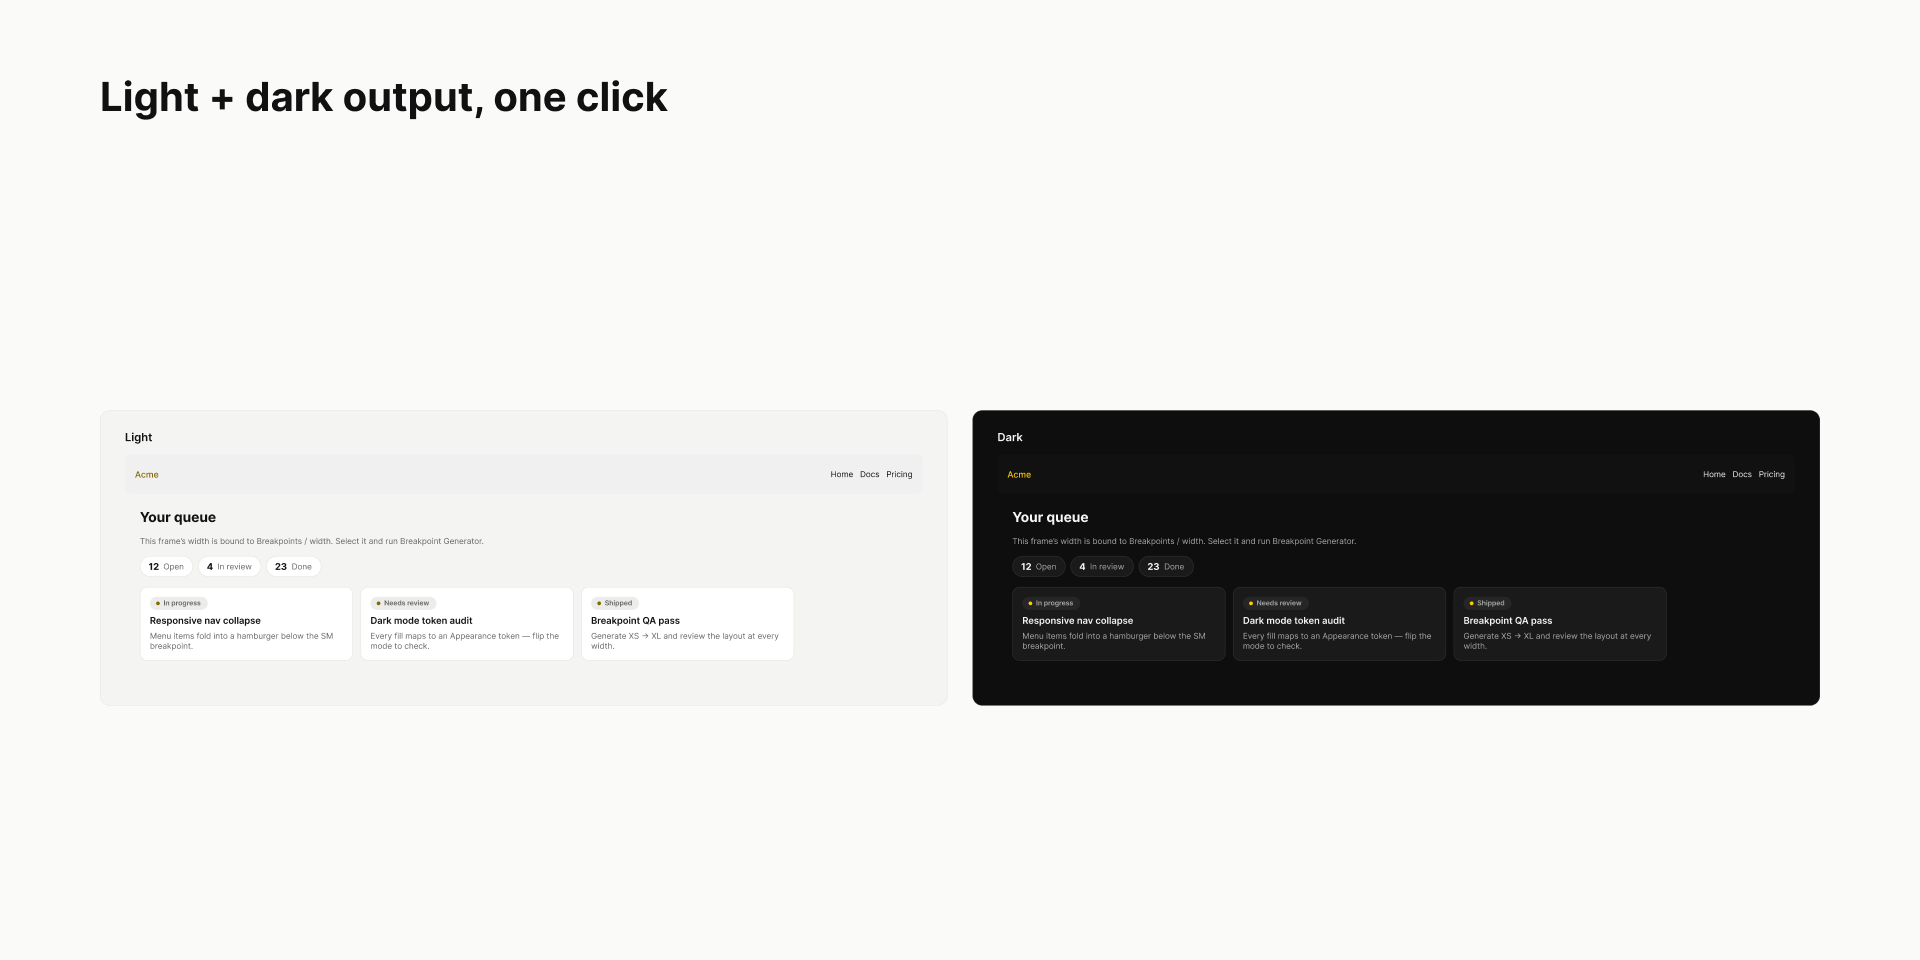
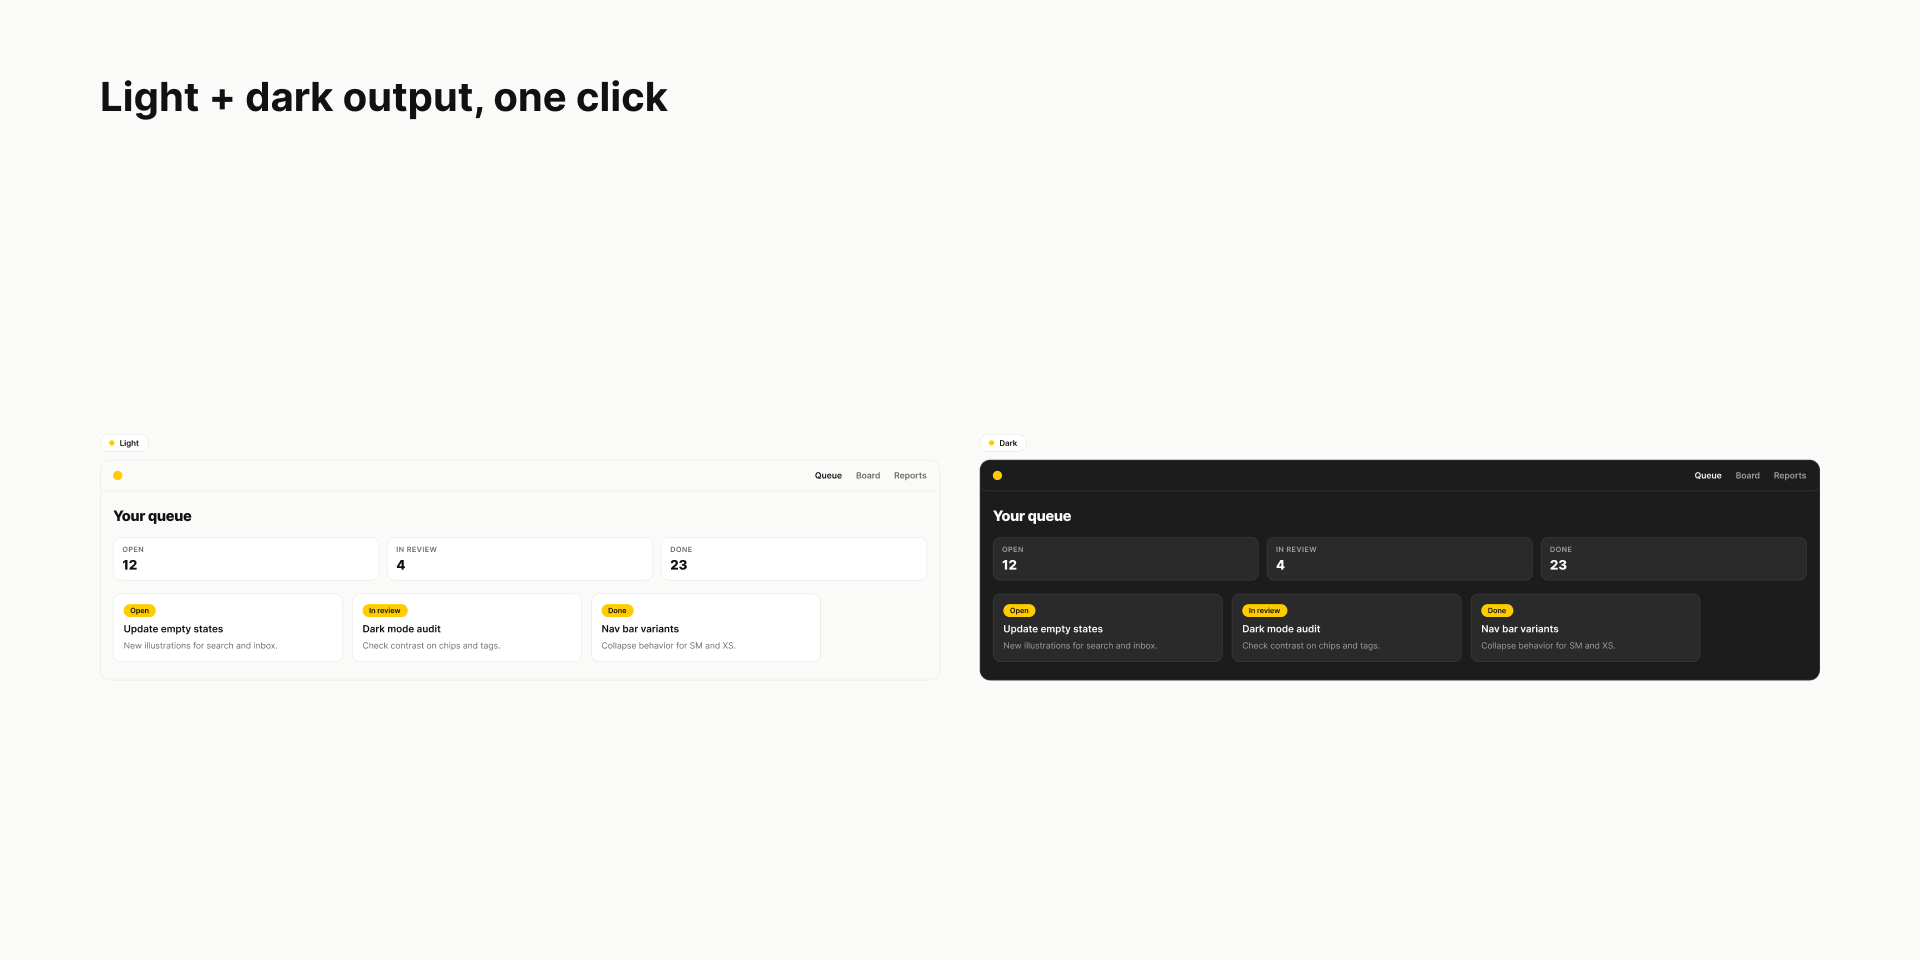
Refresh listing assets from the v2 playground redesign
The playground file was rebuilt to the 'Breakpoint Playground v2' design
(Claude Design): yellow hero cover, contents page with node jump links,
yellow-sidebar chapter cards, and a new ticket-board sample screen with a
revised light/dark palette. Cover and the two canvas carousel screenshots
are re-exported from the new frames; checklist updated to describe the v2
file structure.

diff --git a/community/submission-checklist.md b/community/submission-checklist.md
@@ -30,18 +30,25 @@ Upload in this order:
 - Name, tagline, description, tags — all in `community/listing.md`. Paste in.
 
 ## 5. Playground / template file — built, publish is **[you]**
-The file "Breakpoint generator Playground" is fully built and wired:
-- **Welcome card** (01 · Start here) with the 3-step instructions.
-- **Sample screen** — a small ticket-board app, width bound to
-  `Breakpoints/width` (modes XS 390 → XL 1440), every fill bound to an
-  `Appearance` light/dark token. Space to its right is kept clear for output.
-- **02 · What Generate makes** — example output at XS/SM/LG plus a light +
-  dark strip, made with the same mode-pinning the plugin uses.
-- **03 · Parts the plugin can use** — the `Nav bar` variant set (XS→XL) and
-  the `Breakpoint label` component.
+The file "Breakpoint generator Playground" follows the Figma-team playground
+pattern (designed as "Breakpoint Playground v2" in Claude Design, implemented
+on canvas with live wiring):
+- **Cover** — full-yellow hero with the 390/768/1280 mini-frame graphic.
+- **Contents** — jump links (real node links) to every section, plus the
+  dashed "how to try it" tip with a Generate keycap.
+- **Introduction and setup** — yellow sidebar card with the 3 steps; the
+  live **Sample screen** sits right below it (width bound to
+  `Breakpoints/width`, every fill on `Appearance` light/dark tokens; space to
+  its right is kept clear for plugin output).
+- **Expected output** — sidebar card with real mode-pinned clones at
+  390 / 768 / 1280 showing the 1→2→3 column reflow.
+- **Light & dark** — sidebar card with the same screen in both modes
+  (yellow accent constant across modes).
+- **Parts the plugin uses** — label component + nav bar shelf (XL→XS, menu
+  collapses to a hamburger at SM/XS). Source components sit below.
 - **Listing assets section** — icon, cover, and the three carousel frames.
-  **Delete this section before publishing the file** (it's for the plugin
-  listing, not for users).
+  **Delete this section (and the plugin screenshots section) before
+  publishing the file** — they're for the plugin listing, not for users.
 
 To publish the file: open it → **Share** (top right) → **Publish to
 Community** → set it as a **free template**, add a description (reuse the